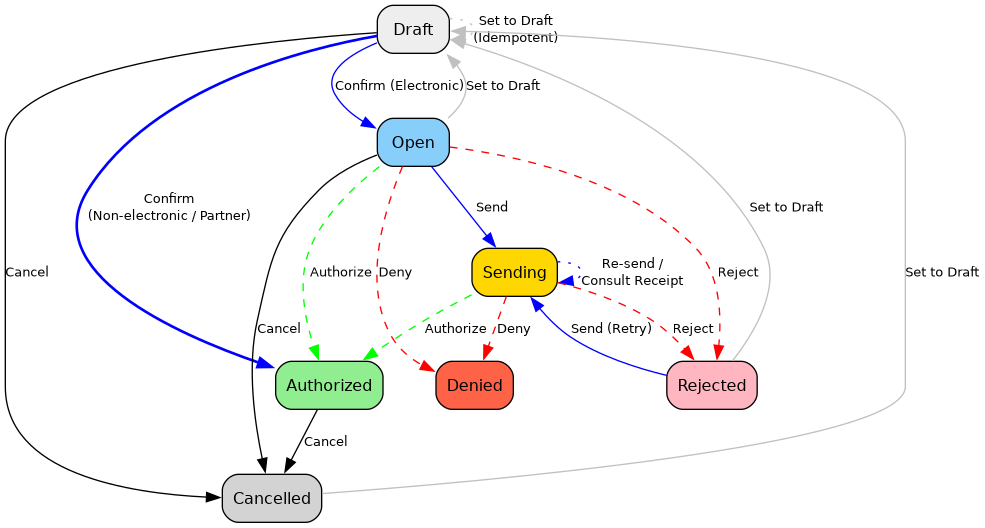
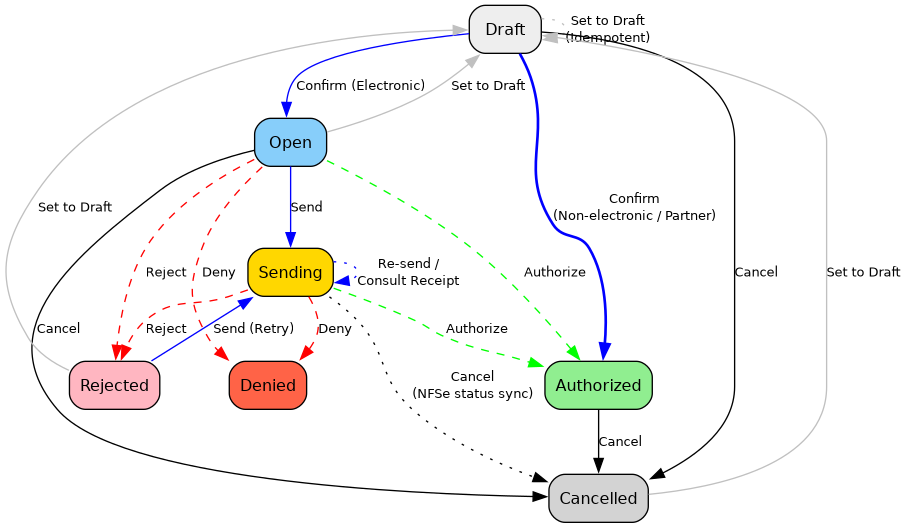
[FIX] l10n_br_fiscal_edi: allow cancel from enviada for NFSe status sync
The NFSe Focus municipal webservice reports document cancellations
while the NFSe is still in 'enviada' (async send awaiting
authorization).  The status sync calls _document_cancel() which
triggers action_cancel_fsm.  Removing SENDING from the cancel
sources broke this production workflow.

Re-add SENDING as a valid source for action_cancel_fsm.  The
municipal webservice is the authoritative source for NFSe
cancellation.  For NFe, the cancel wizard handles the SEFAZ
cancel event before _document_cancel is called, so the same
edge does not create the SEFAZ-local divergence risk.

REJECTED remains excluded: a rejection does not consume
numbering, so there is nothing fiscal to cancel.

Fixes OCA CI failure in l10n_br_nfse_focus
test_process_status_nacional_cancelado:
transitions.core.MachineError: Can't trigger event
action_cancel_fsm from state enviada!

(cherry picked from commit a86331e1bbcb73379c2cd7aa8f63cf99a1a3e4a5)

diff --git a/l10n_br_fiscal_edi/models/document.py b/l10n_br_fiscal_edi/models/document.py
@@ -308,18 +308,22 @@ class Document(models.Model):
                     "dest": DOCUMENT_STATE_DENIED,
                     "after": "_after_document_deny",
                 },
-                # Cancel: Authorized -> Cancel
-                # SENDING (enviada) is NOT a valid source: a document with
-                # a lot in flight at SEFAZ must not be cancelled locally
-                # without a cancel event.  REJECTED is NOT a valid source:
-                # a rejection doesn't consume numbering so there is nothing
-                # to cancel (use back2draft or invalidate instead).
+                # Cancel: Authorized/Open/Draft/Sending -> Cancel
+                # SENDING (enviada) is a valid source because the NFSe
+                # Focus status sync reports municipal cancellations while
+                # the document is still awaiting authorization.  The
+                # municipal webservice is the authoritative source for
+                # NFSe cancellation.  For NFe, the cancel wizard handles
+                # the SEFAZ cancel event before _document_cancel is called.
+                # REJECTED is NOT a valid source: a rejection doesn't
+                # consume numbering so there is nothing to cancel.
                 {
                     "trigger": "action_cancel_fsm",
                     "source": [
                         DOCUMENT_STATE_AUTHORIZED,
                         DOCUMENT_STATE_OPEN,  # Allow canceling if manual/not sent
                         DOCUMENT_STATE_DRAFT,
+                        DOCUMENT_STATE_SENDING,
                     ],
                     "dest": DOCUMENT_STATE_CANCEL,
                     "before": "_before_document_cancel",
